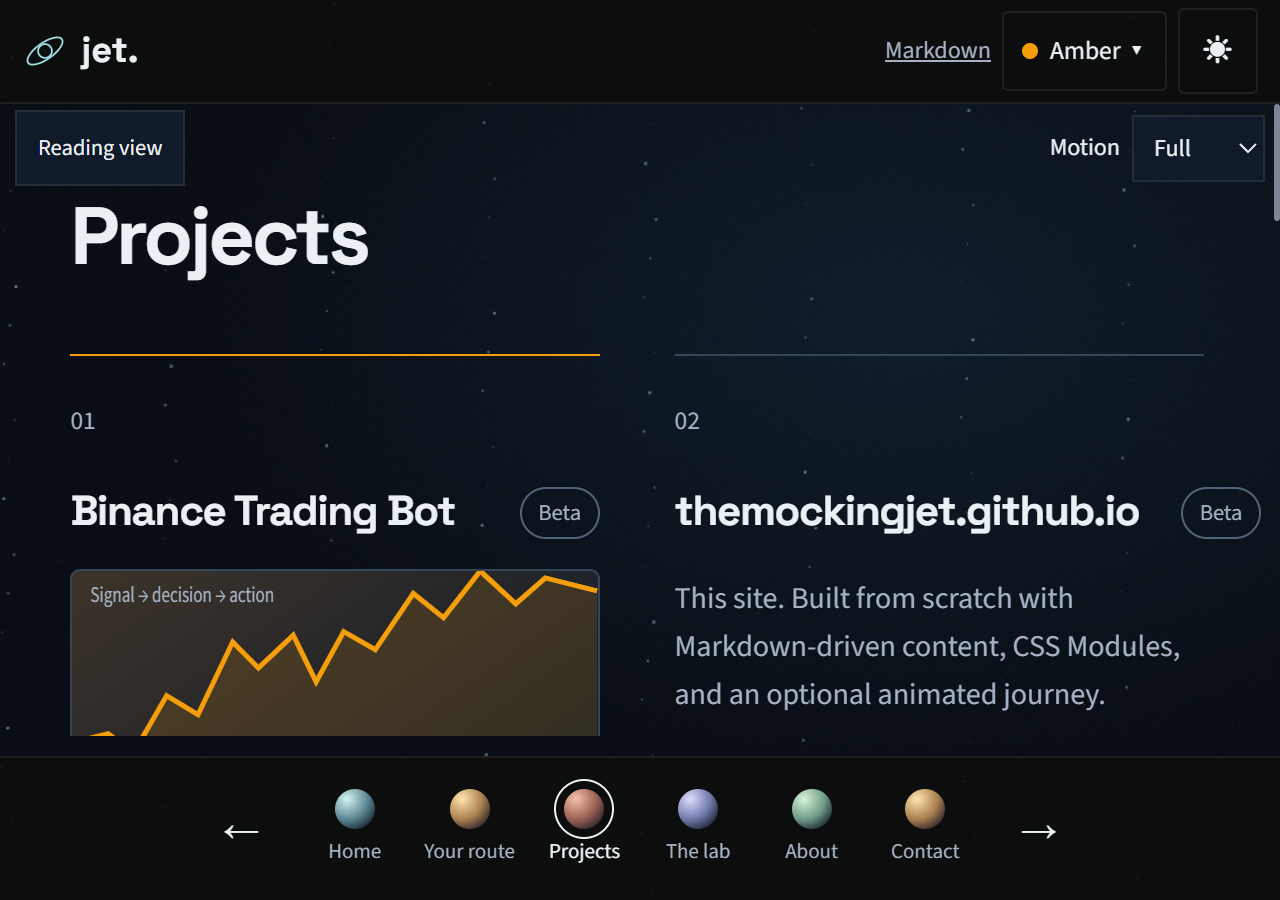
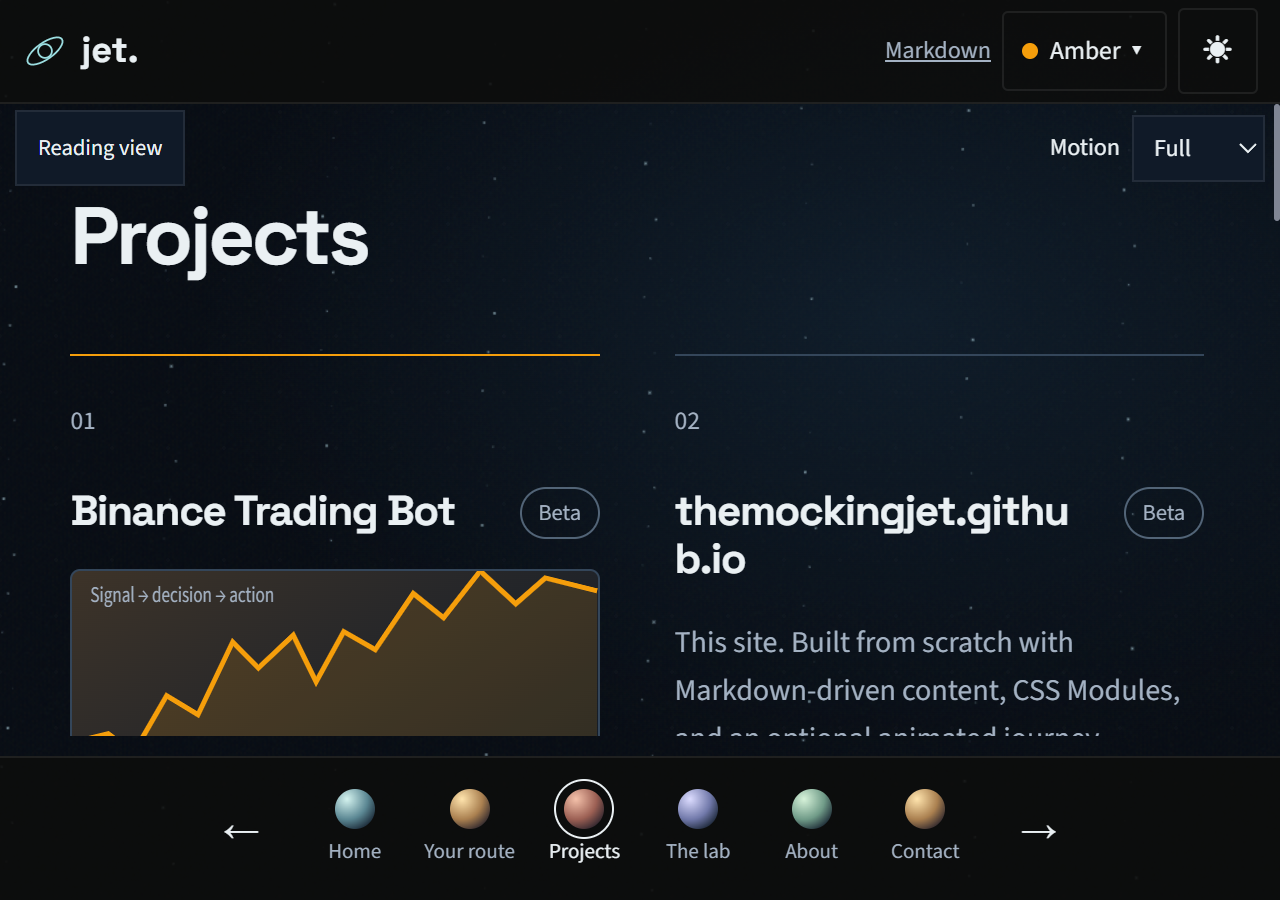
fix: wrap project titles in narrow cards

Changed region(s): [[0.5312, 0.5911, 0.9062, 0.8089], [0.8125, 0.5289, 0.9688, 0.5911]]

diff --git a/src/components/Projects/Projects.module.css b/src/components/Projects/Projects.module.css
@@ -7,8 +7,8 @@
 .cornerBL, .cornerBR { display: none; }
 .index { display: block; color: var(--color-text-muted); font-size: .85rem; margin-bottom: 1.5rem; }
 .cardHeader { display: flex; align-items: start; justify-content: space-between; gap: 1rem; }
-.cardTitle { font-family: var(--font-heading); font-size: clamp(1.4rem, 2vw, 2rem); line-height: 1.15; letter-spacing: -.03em; }
-.cardTitle a { display: inline-flex; gap: .4rem; align-items: baseline; }
+.cardTitle { min-width: 0; overflow-wrap: anywhere; font-family: var(--font-heading); font-size: clamp(1.4rem, 2vw, 2rem); line-height: 1.15; letter-spacing: -.03em; }
+.cardTitle a { display: inline-flex; min-width: 0; gap: .4rem; align-items: baseline; overflow-wrap: anywhere; }
 .externalIcon { flex-shrink: 0; }
 .signalFigure { position: relative; overflow: hidden; aspect-ratio: 2.4; margin: 1rem 0 1.4rem; border: 1px solid #34465a; border-radius: 5px; background: linear-gradient(145deg, color-mix(in srgb, var(--color-accent) 16%, var(--color-bg-elevated)), var(--color-bg-surface)); }
 .signalFigure svg { display: block; width: 100%; height: 100%; }

diff --git a/docs/validation.md b/docs/validation.md
@@ -7,7 +7,7 @@ The release review is still in progress. These results are local checks, not a s
 - Node 22.16.0: lint, production build, 69 Vitest tests, and 61 Playwright desktop/emulated-mobile tests passed; one desktop touch-only case was intentionally skipped. A clean `npm ci` and the same checks also passed in an isolated copy. Hosted Node 22 validation passed for commit `c0d525f`, including the project-chart accessibility check.
 - Production preview: `/raw/portfolio.md` returned 200 and matched `src/content/portfolio.md` byte for byte. Legacy fragments `#hero`, `#about`, `#projects` and `#skills` selected the corresponding journey destination.
 - `dist/.experimental` was absent.
-- A genuine 200% Chromium browser-zoom review used the browser zoom API (not viewport emulation): Chromium reported zoom 2, `innerWidth` 640, `innerHeight` 450 and `devicePixelRatio` 2. All six destinations were checked for panel/document horizontal overflow and itinerary bounds. An About-section decorative glow overflow was found, fixed by constraining it to its section, and the same destination-width check now runs in the responsive Playwright test. Captures: [home](screenshots/zoom200-home.png), [route](screenshots/zoom200-route.png), [projects](screenshots/zoom200-projects.png), [lab](screenshots/zoom200-lab.png), [about](screenshots/zoom200-about.png), [contact](screenshots/zoom200-contact.png).
+- A genuine 200% Chromium browser-zoom review used the browser zoom API (not viewport emulation): Chromium reported zoom 2, `innerWidth` 640, `innerHeight` 450 and `devicePixelRatio` 2. All six destinations were checked for panel/document horizontal overflow and itinerary bounds. The review found an About decorative glow overflow, fixed by constraining it to its section. The expanded responsive Playwright check also exposed a long project title overflowing its narrow card on Linux; the title now wraps. Captures: [home](screenshots/zoom200-home.png), [route](screenshots/zoom200-route.png), [projects](screenshots/zoom200-projects.png), [lab](screenshots/zoom200-lab.png), [about](screenshots/zoom200-about.png), [contact](screenshots/zoom200-contact.png).
 - Production-preview captures: desktop [home](screenshots/desktop-home.png), [route](screenshots/desktop-route.png), [projects](screenshots/desktop-projects.png), [lab](screenshots/desktop-lab.png), [about](screenshots/desktop-about.png), [contact](screenshots/desktop-contact.png); mobile [home](screenshots/mobile-home.png), [route](screenshots/mobile-route.png), [projects](screenshots/mobile-projects.png), [lab](screenshots/mobile-lab.png), [about](screenshots/mobile-about.png), [contact](screenshots/mobile-contact.png). Mobile screenshots use a 390px emulated viewport; they are not physical-device captures.
 
 ### Lab performance comparison
